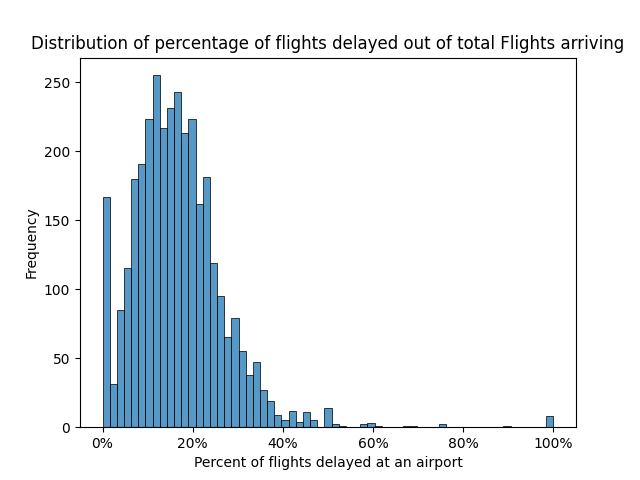
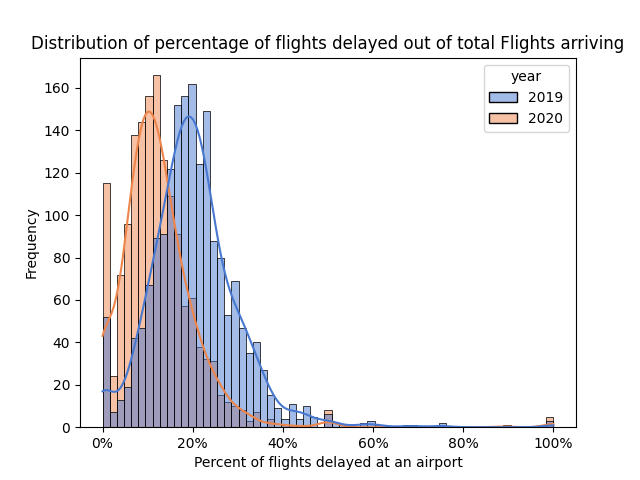
Updated graph
Shows difference between 2019 and 2020

diff --git a/Code.py b/Code.py
@@ -14,12 +14,13 @@ delays  = ["nas_ct","security_ct","late_aircraft_ct", "weather_ct","carrier_ct"]
 df["flightdelays_arrivals"] = x/y
 
 #plotting graph
-plot = sns.histplot(df["flightdelays_arrivals"])
+plot = sns.histplot(data=df, x="flightdelays_arrivals", hue="year", kde=True, palette="muted")
 plt.ylabel("Frequency")
 plt.xlabel("Percent of flights delayed at an airport")
 plt.title("Distribution of percentage of flights delayed out of total Flights arriving")
 
-#Converting x-axis to percents for readability 
+#Converting x-axis to percents for readability
+
 plot.xaxis.set_major_formatter(mtick.PercentFormatter())
 vals = plot.get_xticks()
 plot.set_xticklabels(['{:,.0%}'.format(x) for x in vals])
